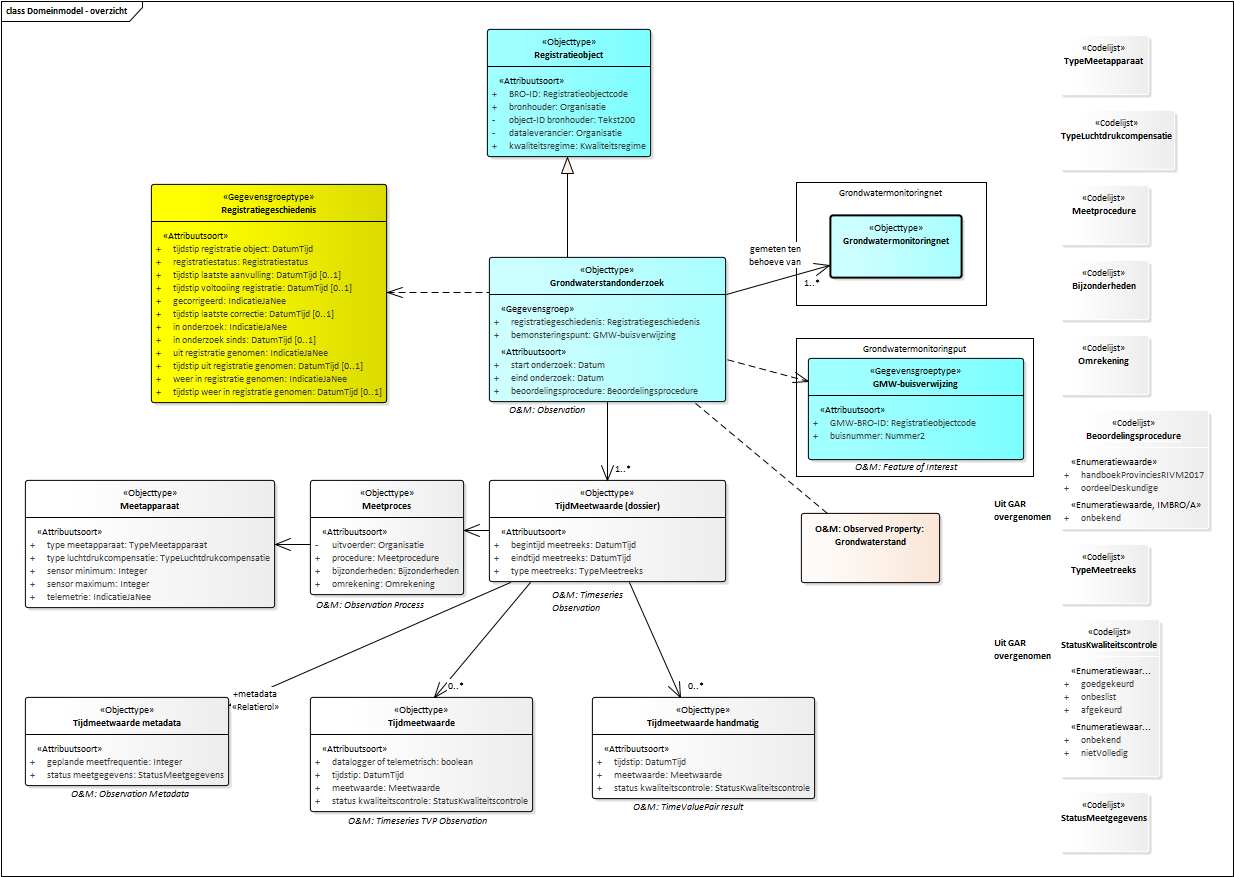
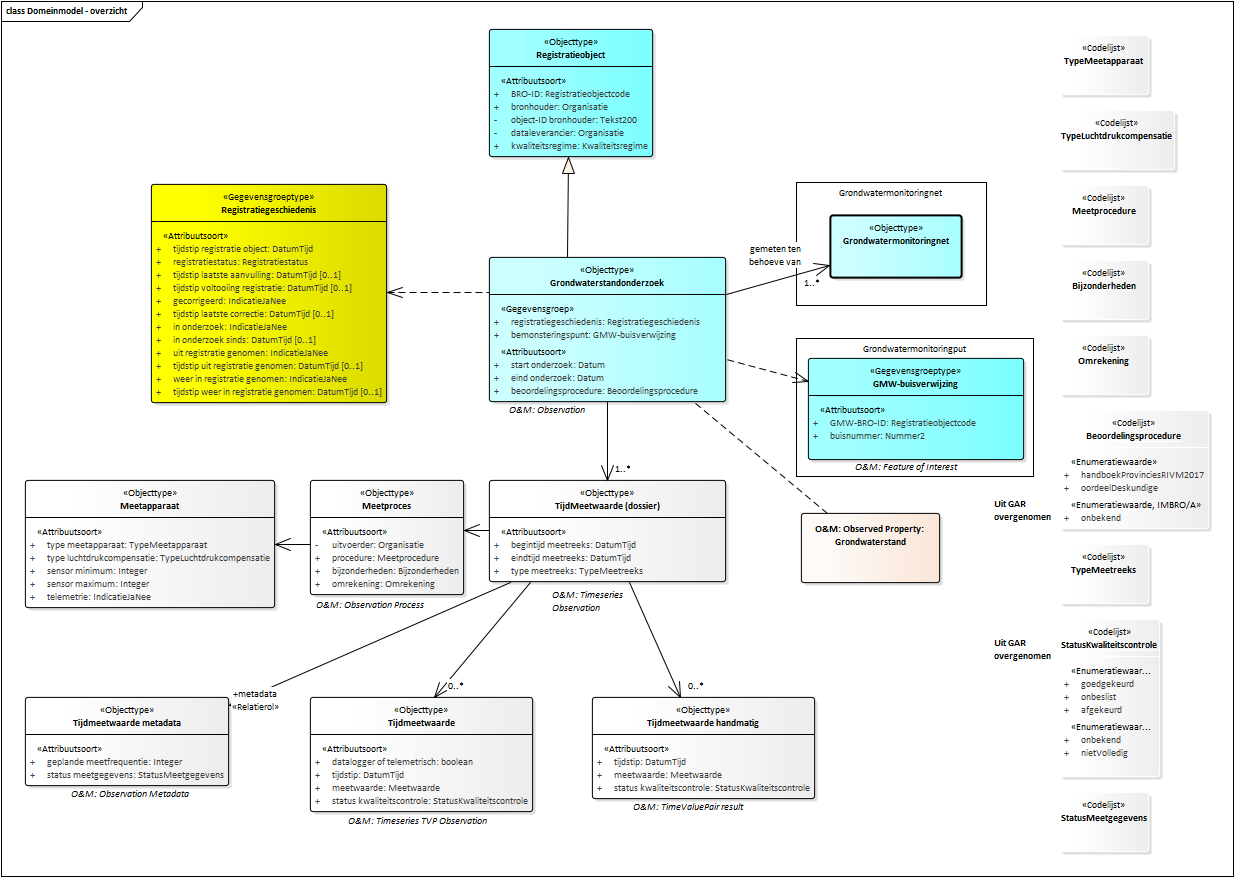
Conceptualmodel-GrondwaterstandonderzoekGLD-0.1-1-20190308-20190429-162618

Changed region(s): [[0.3695, 0.0308, 0.5543, 0.1847]]

diff --git a/data/GLD-cat.html b/data/GLD-cat.html
@@ -2,7 +2,7 @@
 <section id="cat" class="normative" level="1">
    <h2>Catalogus</h2>
    <p><b>Deze tekst is normatief.</b>
-      <!--Conceptualmodel-GrondwaterstandonderzoekGLD-0.1-1-20190308-20190429-162205 imvertor 1.52.5--></p>
+      <!--Conceptualmodel-GrondwaterstandonderzoekGLD-0.1-1-20190308-20190429-162618 imvertor 1.52.5--></p>
    <div class="imageinfo overview"><img src="data/Images/EAID_7E25C3ED_2822_4362_A89A_0474BB1CFF50.png" usemap="#imagemap-EAID_7E25C3ED_2822_4362_A89A_0474BB1CFF50"><map name="imagemap-EAID_7E25C3ED_2822_4362_A89A_0474BB1CFF50">
          <area shape="rect" coords="592,799,815,697" alt="" href="#graph_EAID_59F30095_1E40_4f56_B2B0_A68221F83866">
          <area shape="rect" coords="310,812,533,697" alt="" href="#graph_EAID_B44FC4E5_2C46_4ccc_8AF6_8C6864F4B359">
@@ -10,7 +10,7 @@
          <area shape="rect" coords="25,608,275,480" alt="" href="#graph_EAID_E28C9A59_6DC8_479f_A76F_62C4453C888E">
          <area shape="rect" coords="310,595,464,480" alt="" href="#graph_EAID_46DA7008_8E64_4a3a_A12A_06F1338EA825">
          <area shape="rect" coords="489,582,726,480" alt="" href="#graph_EAID_36093AFE_D46D_4aee_BFF9_D9457FF3132F">
-         <area shape="rect" coords="487,157,651,29" alt="" href="#graph_EAID_04FC4CF0_BE4E_421a_A62C_E3F00BED26A0">
+         <area shape="rect" coords="489,157,653,29" alt="" href="#graph_EAID_04FC4CF0_BE4E_421a_A62C_E3F00BED26A0">
          <area shape="rect" coords="151,403,387,184" alt="" href="#graph_EAID_0D009A59_1E9A_4fc2_867A_9006A9464AA7">
          <area shape="rect" coords="808,460,1024,358" alt="" href="#graph_EAID_3337CDCE_0A5D_4aee_AEB0_14AF7652B102">
          <area shape="rect" coords="830,278,962,215" alt="" href="#graph_EAID_68FD3B87_BA7B_485e_A5DC_4804CB98C818">
@@ -46,13 +46,7 @@
                   <th>Definitie</th>
                   <td>
                      
-                     <p xmlns="http://www.w3.org/1999/xhtml" xmlns:html="http://www.w3.org/1999/xhtml" xmlns:imvert="http://www.imvertor.org/schema/system">Het geheel van gegevens dat betrekking heeft op het recht van een bepaalde partij
-                        een bepaalde mijnbouwactiviteit in een bepaald deel van de ondergrond van Nederland
-                        en zijn Exclusieve Economische Zone uit te voeren, en dat onder de verantwoordelijkheid
-                        van het ministerie van Economische Zaken en Klimaat aan de registerbeheerder van de
-                        basisregistratie ondergrond is aangeleverd en door de laatste in de registratie ondergrond
-                        is opgenomen.
-                     </p>
+                     <p xmlns="http://www.w3.org/1999/xhtml" xmlns:html="http://www.w3.org/1999/xhtml" xmlns:imvert="http://www.imvertor.org/schema/system">TODO</p>
                      
                   </td>
                </tr>
@@ -538,13 +532,7 @@
                   </td>
                   <td>
                      
-                     <p xmlns="http://www.w3.org/1999/xhtml" xmlns:html="http://www.w3.org/1999/xhtml" xmlns:imvert="http://www.imvertor.org/schema/system">Het geheel van gegevens dat betrekking heeft op het recht van een bepaalde partij
-                        een bepaalde mijnbouwactiviteit in een bepaald deel van de ondergrond van Nederland
-                        en zijn Exclusieve Economische Zone uit te voeren, en dat onder de verantwoordelijkheid
-                        van het ministerie van Economische Zaken en Klimaat aan de registerbeheerder van de
-                        basisregistratie ondergrond is aangeleverd en door de laatste in de registratie ondergrond
-                        is opgenomen.
-                     </p>
+                     <p xmlns="http://www.w3.org/1999/xhtml" xmlns:html="http://www.w3.org/1999/xhtml" xmlns:imvert="http://www.imvertor.org/schema/system">TODO</p>
                      
                   </td>
                </tr>
@@ -608,7 +596,7 @@
                   <th>Definitie</th>
                   <td>
                      
-                     <p xmlns="http://www.w3.org/1999/xhtml" xmlns:html="http://www.w3.org/1999/xhtml" xmlns:imvert="http://www.imvertor.org/schema/system">Het grondwatermonitoringnet waarin het grondwatersamenstellingsonderzoek wordt uitgevoerd.</p>
+                     <p xmlns="http://www.w3.org/1999/xhtml" xmlns:html="http://www.w3.org/1999/xhtml" xmlns:imvert="http://www.imvertor.org/schema/system">Het grondwatermonitoringnet waarin het grondwaterstandonderzoek wordt uitgevoerd.</p>
                      
                   </td>
                </tr>
@@ -943,7 +931,7 @@
                   <td>
                      
                      <p xmlns="http://www.w3.org/1999/xhtml" xmlns:html="http://www.w3.org/1999/xhtml" xmlns:imvert="http://www.imvertor.org/schema/system">Het KvK-nummer van de onderneming of de maatschappelijke activiteit van de rechtspersoon
-                        die voor de bronhouder geldt als verantwoordelijk voor de uitvoering van het<em>meetproces</em>, of het equivalent daarvan in een handelsregister van een andere lidstaat van de
+                        die voor de bronhouder geldt als verantwoordelijk voor de uitvoering van het <em>meetproces</em>, of het equivalent daarvan in een handelsregister van een andere lidstaat van de
                         Europese Unie dan Nederland.
                      </p>
                      
@@ -1548,8 +1536,7 @@
                <td>
                   
                   <p xmlns="http://www.w3.org/1999/xhtml" xmlns:html="http://www.w3.org/1999/xhtml" xmlns:imvert="http://www.imvertor.org/schema/system">De lijst van protocollen en werkwijzen die kunnen worden toegepast bij de beoordeling
-                     van de kwaliteit van de meetwaarden die in het veld en/of het laboratorium gemeten
-                     zijn.
+                     van de kwaliteit van de meetwaarden.
                   </p>
                   
                </td>
@@ -3757,7 +3744,7 @@
                      <td>
                         
                         <p xmlns="http://www.w3.org/1999/xhtml" xmlns:html="http://www.w3.org/1999/xhtml" xmlns:imvert="http://www.imvertor.org/schema/system">Het KvK-nummer van de onderneming of de maatschappelijke activiteit van de rechtspersoon
-                           die voor de bronhouder geldt als verantwoordelijk voor de uitvoering van het<em>meetproces</em>, of het equivalent daarvan in een handelsregister van een andere lidstaat van de
+                           die voor de bronhouder geldt als verantwoordelijk voor de uitvoering van het <em>meetproces</em>, of het equivalent daarvan in een handelsregister van een andere lidstaat van de
                            Europese Unie dan Nederland.
                         </p>
                         
@@ -4885,7 +4872,7 @@
 <section id="lis" class="normative" level="1">
    <h2>Inhoud van waardenlijsten</h2>
    <p><b>Deze tekst is normatief.</b>
-      <!--Conceptualmodel-GrondwaterstandonderzoekGLD-0.1-1-20190308-20190429-162205 imvertor 1.52.5--></p><a class="anchor" name="graph_EAID_ED784971_8F0A_417a_A612_8FAC73B4769F"></a><a class="anchor" name="detail_class_Model_Bijzonderheden"></a><section id="detail_class_Model_Bijzonderheden" level="3">
+      <!--Conceptualmodel-GrondwaterstandonderzoekGLD-0.1-1-20190308-20190429-162618 imvertor 1.52.5--></p><a class="anchor" name="graph_EAID_ED784971_8F0A_417a_A612_8FAC73B4769F"></a><a class="anchor" name="detail_class_Model_Bijzonderheden"></a><section id="detail_class_Model_Bijzonderheden" level="3">
       <h3>Codelijst details Bijzonderheden</h3>
       
       <table>
@@ -5072,8 +5059,7 @@
                <td>
                   
                   <p xmlns="http://www.w3.org/1999/xhtml" xmlns:html="http://www.w3.org/1999/xhtml" xmlns:imvert="http://www.imvertor.org/schema/system">De lijst van protocollen en werkwijzen die kunnen worden toegepast bij de beoordeling
-                     van de kwaliteit van de meetwaarden die in het veld en/of het laboratorium gemeten
-                     zijn.
+                     van de kwaliteit van de meetwaarden.
                   </p>
                   
                </td>
